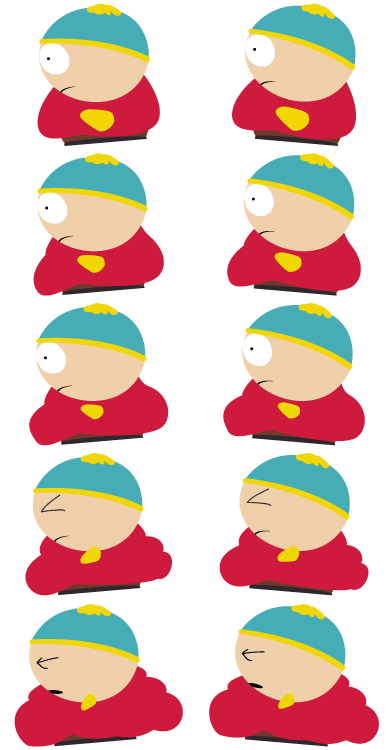
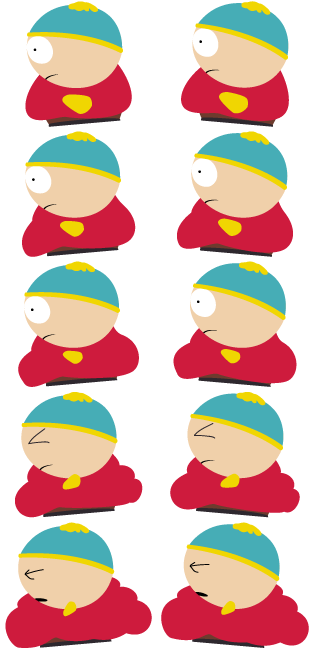
Modified the image of Cartman by a smaller one

diff --git a/js/player.js b/js/player.js
@@ -9,8 +9,8 @@ function Player(game) {
 	
 	this.img.src = this.imgRight;
 
-	this.w = 195;
-	this.h = 150;
+	this.w = 157;
+	this.h = 130;
 	this.x = 20;
 	this.y0 = this.game.canvas.height - (this.h - 5); //5px borders image
 	this.y = this.y0;
